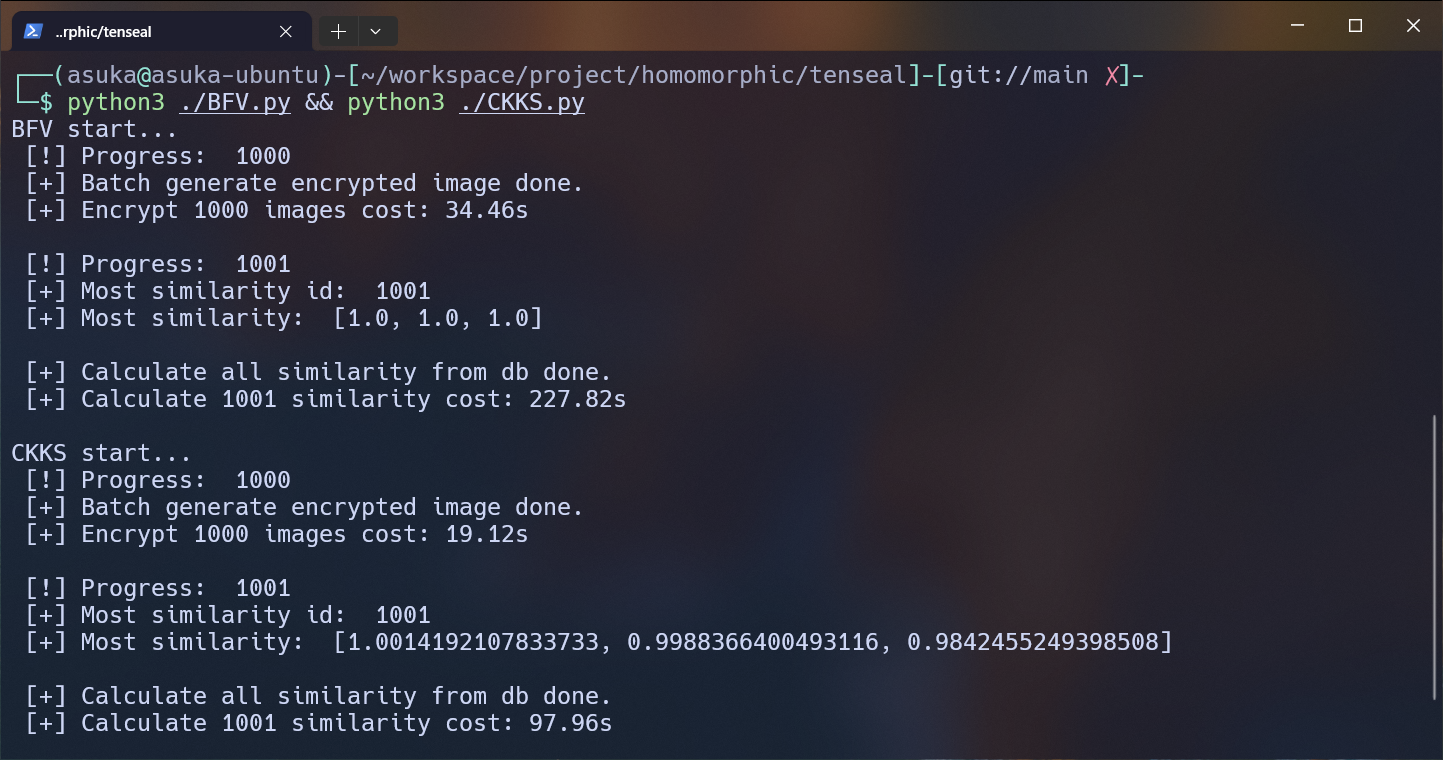
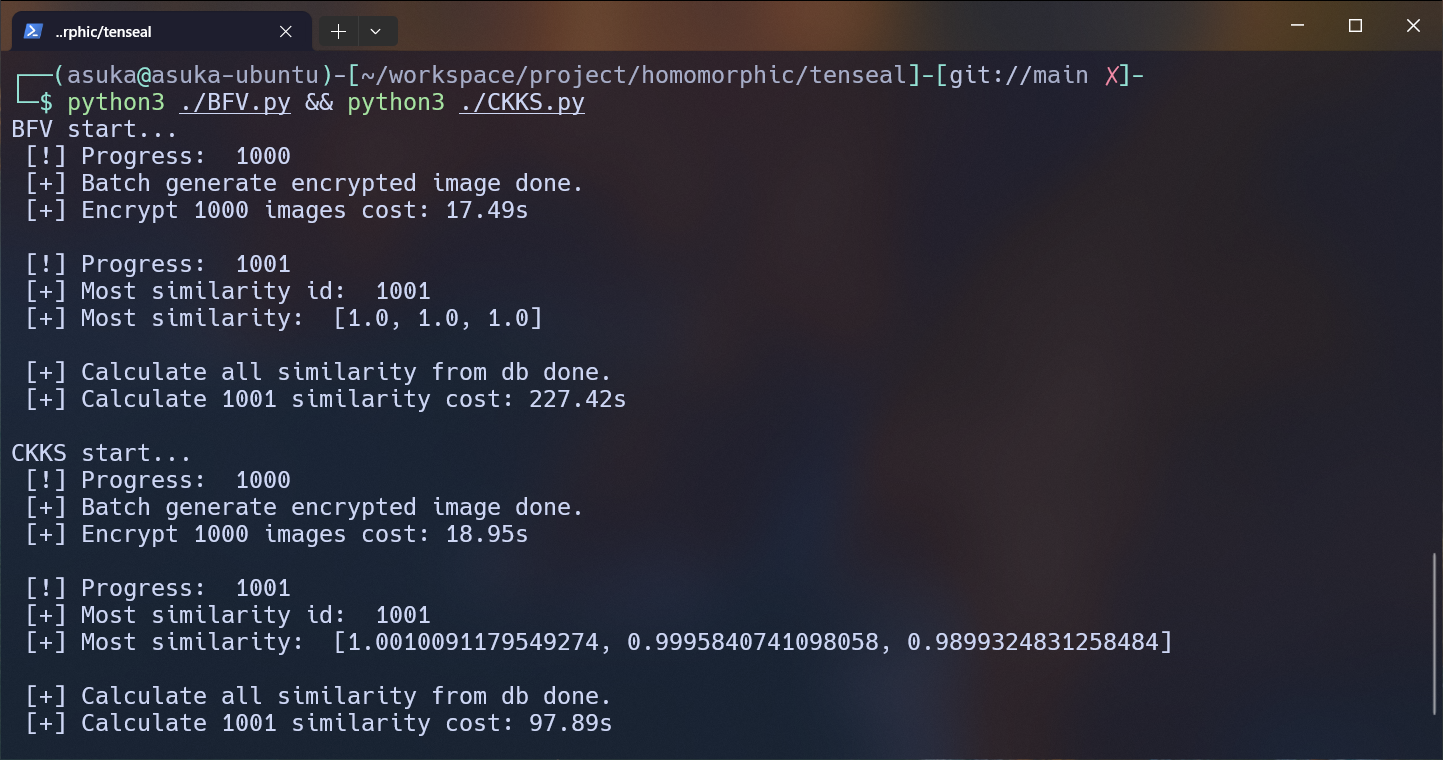
update running result

diff --git a/README.md b/README.md
@@ -41,8 +41,8 @@ I use the BFV/CKKS scheme to encrypt the three channels of 1001 images and calcu
 |Image|![](./asset/20769.png)|![](./asset/BFV_decrypted.png)|![](./asset/CKKS_decrypted.png)|
 |plain_modulus/global_scale|-|1032193|2^40|
 |Cosine Similarity|-|[1.0, 1.0, 1.0]|[1.00, 0.99, 0.98]|
-|Time Cost encryption|-|34.46 s|19.12 s|
-|Time Cost calculation|-|227.82 s|97.96 s|
+|Time Cost encryption|-|17.49 s|18.95 s|
+|Time Cost calculation|-|227.42 s|97.89 s|
 
 - The decrypted image is not exactly the same as the original image because the CKKS scheme use floating-point numbers to represent the encrypted data, which will cause some precision loss. But the decrypted image is still very similar to the original image.
 
@@ -50,4 +50,5 @@ Running time of the BFV/CKKS scheme:
 
 ![](./asset/result.png)
 
-- As you can see, the CKKS scheme offers faster encryption and homomorphic operations compared to the BFV scheme. However, the CKKS scheme incurs some precision loss due to the use of floating-point numbers, while the BFV scheme can achieve accurate integer computations.
+- As you can see, the BFV scheme offers slightly faster encryption compared to the CKKS scheme, while the CKKS scheme offers faster decryption and homomorphic operations compared to the BFV scheme.
+- However, the CKKS scheme incurs some precision loss due to the use of floating-point numbers, while the BFV scheme can achieve accurate integer computations.
